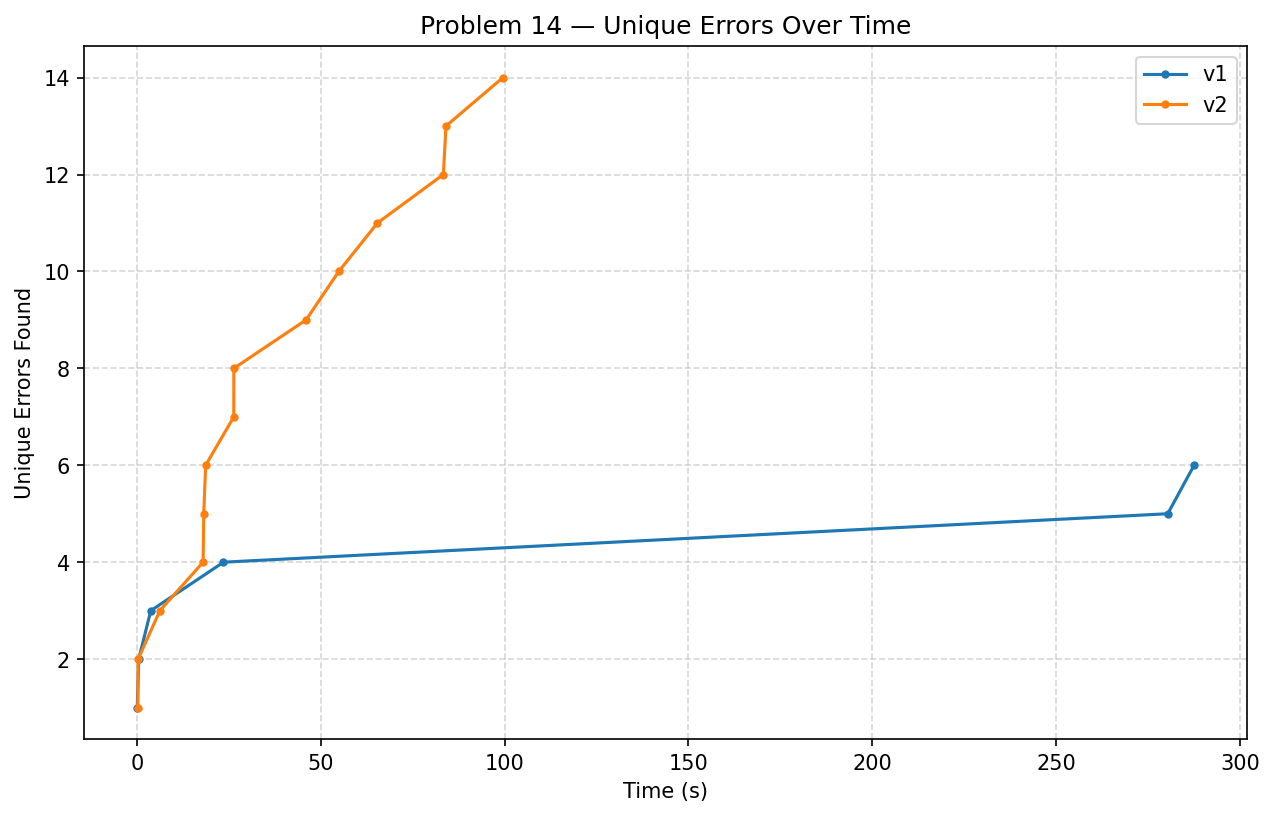
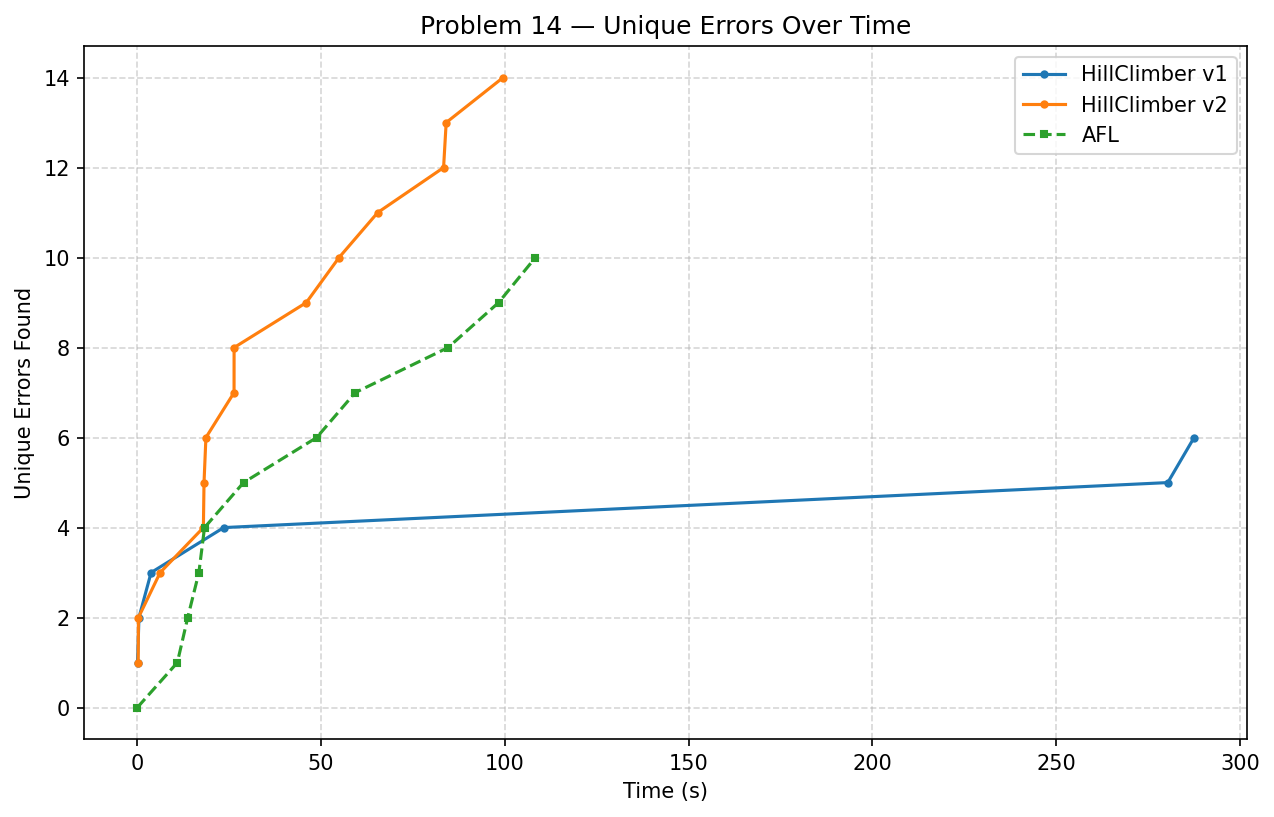
Include AFL results in hillclimber plots

diff --git a/scripts/plot_hillclimber_afl.py b/scripts/plot_hillclimber_afl.py
@@ -4,6 +4,8 @@ import os
 
 PROBLEMS = [11, 12, 13, 14, 15, 17]
 DATA_DIR = "../logs/results_lab1_v2"
+AFL_DIR = "../logs"
+OUT_DIR = "../logs/results_lab1_v2"
 
 for problem in PROBLEMS:
     fig, ax = plt.subplots(figsize=(10, 6))
@@ -22,8 +24,23 @@ for problem in PROBLEMS:
             marker="o",
             markersize=3,
             linewidth=1.5,
-            label=f"v{version}",
+            label=f"HillClimber v{version}",
         )
+
+    afl_file = os.path.join(AFL_DIR, f"Problem{problem}_afl.csv")
+    if os.path.exists(afl_file):
+        df_afl = pd.read_csv(afl_file)
+        ax.plot(
+            df_afl["time_ms"] / 1000,
+            df_afl["unique_errors"],
+            marker="s",
+            markersize=3,
+            linewidth=1.5,
+            linestyle="--",
+            label="AFL",
+        )
+    else:
+        print(f"Warning: {afl_file} not found, AFL series skipped.")
 
     ax.set_title(f"Problem {problem} — Unique Errors Over Time")
     ax.set_xlabel("Time (s)")
@@ -31,7 +48,7 @@ for problem in PROBLEMS:
     ax.legend()
     ax.grid(True, linestyle="--", alpha=0.5)
 
-    out_name = f"Problem{problem}_plot.png"
+    out_name = os.path.join(OUT_DIR, f"Problem{problem}_plot.png")
     fig.savefig(out_name, dpi=150, bbox_inches="tight")
     plt.close(fig)
     print(f"Saved {out_name}")
